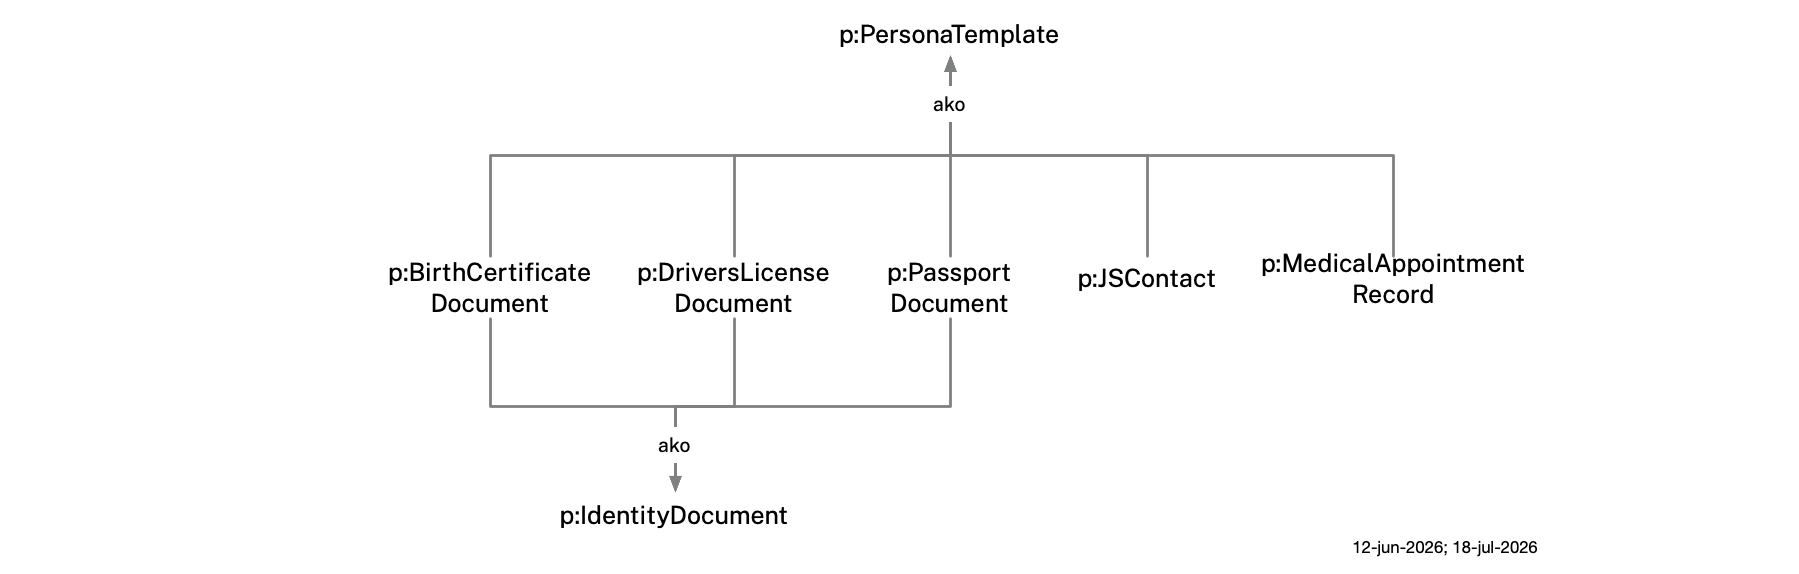
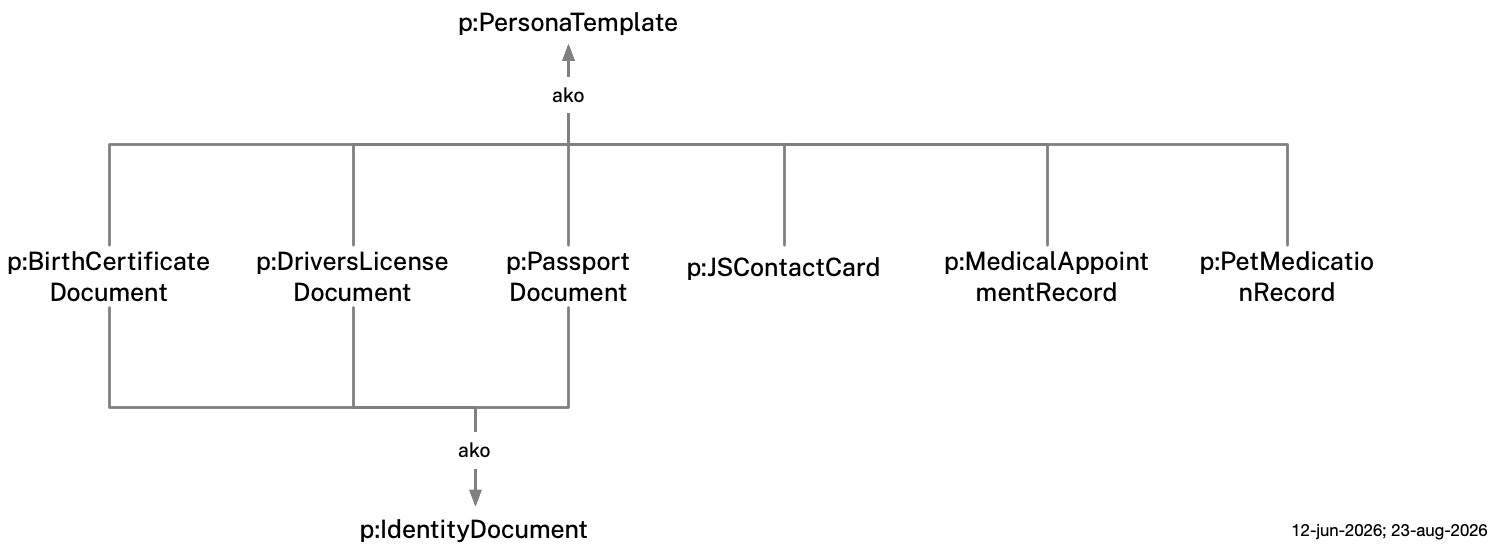
Remove stale deprecated-alias block; add Check 23 for persona-templates diagram
- persona-templates.ttl: removed the owl:deprecated + rdfs:seeAlso alias
  block for DriversLicenseNumber/PassportNumber/PlaceOfBirth/
  IssuingJurisdiction/IssuingCountry/IssueDate, confirmed no downstream
  databooks reference them. These classes remain declared and in active
  use earlier in the file; the alias block was leftover from the 2.4.0
  cco: ent IRI migration and had become contradictory. Bumped to 2.8.0.
- images/persona-ontology/persona-templates.png: redrawn so the fourth
  top-bracket box reads p:JSContactCard (was missing the "Card" suffix).
- CLAUDE.md: added Check 23 verifying persona-templates.ttl's
  PersonaTemplate/IdentityDocument subclass structure against the
  redrawn diagram; recorded resolution.
- README.md: added cross-reference links to "Examples of Cells" and
  "How Cells Are Persisted in the File System"; minor paragraph split
  in the Persona Templates section.

diff --git a/README.md b/README.md
@@ -263,7 +263,7 @@ Each cell DataBook carries one or two `c:subject` values identifying who or what
 
 ### How Cells Are Persisted in the Filesystem
 
-A folder is a **cell** exactly when it holds one **cell DataBook** (see below) directly inside it, whose filename's `<local>` segment is an exact copy of the folder's own name — that single file alone marks the folder as a cell. A folder without a matching cell DataBook is simply a **regular filesystem folder**, not a cell — even if it contains nested cells of its own further down. A folder can never hold more than one cell DataBook, because a `c:Cell` is, by definition, self-contained, and letting two cells share a folder would risk a single file in that folder becoming ambiguously part of both.
+A folder is a **cell** exactly when it holds one **cell DataBook** (see [Examples of Cells](#examples-of-cells) below) directly inside it, whose filename's `<local>` segment is an exact copy of the folder's own name — that single file alone marks the folder as a cell. A folder without a matching cell DataBook is simply a **regular filesystem folder**, not a cell — even if it contains nested cells of its own further down. A folder can never hold more than one cell DataBook, because a `c:Cell` is, by definition, self-contained, and letting two cells share a folder would risk a single file in that folder becoming ambiguously part of both.
 
 A cell's DataBook may carry a `c:origin` value, asserted as `mia.origin` in its own YAML front matter. When present, it records the `cat:Category` subclass — always ultimately reachable from `cat:Person` or `cat:Organization` — the cell was originally instantiated from; this value is fixed at that point, not re-derived from the cell's folder's current name, so the folder can be freely renamed or moved without needing to update it. There are accordingly **three category types**, and the diagram below colors each cell's folder icon fill by which one it is: **Person** (tan, origin reachable from `cat:Person`), **Organization** (light blue, origin reachable from `cat:Organization`), and **Custom** (purple, no `c:origin` at all — a cell the user created without picking any existing `cat:Category` class). Custom is identified precisely, not by judgment call: the cell's DataBook filename carries the literal `(custom)` disambiguator in place of an origin-derived `<catType>` (e.g. `Friends(custom).databook.md` — see the [Category/Cell DataBook Filename Convention](CLAUDE.md#categorycell-databook-filename-convention) in CLAUDE.md).
 
@@ -274,7 +274,7 @@ The diagram below shows how a three level snippet of the user's tree of cells is
 <p align="center"><img src="images/folder-mapping.png" alt="Cells, categories, and topics"></p>
 
 - Every file and non-cell subfolder found inside a cell's folder — to any depth — that is not itself a descendant cell (see below) is that cell's own content, shown in the app's Files tab, and travels with the cell when it's shared. A nested folder that is itself a cell (i.e. holds its own cell DataBook) is a **descendant cell** — a separate node in the tree — and is never counted as part of its ancestor's content, even though it physically sits inside the ancestor's folder.
-- One special file is the cell's **cell DataBook** (a `.databook.md` file with `type: cell-databook`) — see above for why a folder can never hold more than one. A cell DataBook's *filename* matches its own folder's name verbatim, with each space replaced by a hyphen (spaces are illegal inside a raw Turtle IRI) — its `id`, however, is a flat, opaque `cell-<NN>` value independent of the folder name (see CLAUDE.md's Check 9), the same pattern topic ids already use.
+- One special file is the cell's **cell DataBook** (a `.databook.md` file with `type: cell-databook`) — see [How Cells Are Persisted in the File System](#how-cells-are-persisted-in-the-file-system) above for why a folder can never hold more than one. A cell DataBook's *filename* matches its own folder's name verbatim, with each space replaced by a hyphen (spaces are illegal inside a raw Turtle IRI) — its `id`, however, is a flat, opaque `cell-<NN>` value independent of the folder name (see CLAUDE.md's Check 9), the same pattern topic ids already use.
 - Another special file acts as a note about the cell. This so-called *folder note* is stored as a file named `X.md` inside the `X` folder. Using the same name as the folder matches the convention used by PKM (Personal Knowledge Management) tools such as Obsidian (using the Folder Notes plugin), Logseq, Foam and others.
 
 ### Cell Ontology File
@@ -523,7 +523,9 @@ This section describes a few details related to modeling names and addresses.
 
 ### Persona Templates
 
-`p:PersonaTemplate` is an abstract classification class that serves as the common superclass for all reusable, topic-type-specific template labels. These labels are defined in `persona-templates.ttl`. A topic declares its template as the `template` field of its `mia.topics[]` entry (inside its owning cell DataBook's front matter) rather than by typing its `p:Person` individual. Five of the six per-template SHACL shapes (`p:BirthCertificateDocument`, `p:DriversLicenseDocument`, `p:PassportDocument`, `p:MedicalAppointmentRecord`, `p:PetMedicationRecord`) live in `cell-templates-shacl.ttl`, each directly linked from its class-level `c:TCell` template (in `cell-templates.ttl`) via `c:templateShape` (`cell.ttl`) — so the shape is reachable by RDF traversal from the corresponding `cat:Category` class (`cat:BirthCertificate`, `cat:DriversLicense`, `cat:Passport`, `cat:MedicalAppointmentInfo`, `cat:PetsMedications`) via `cat:templateCell` — see [Lazy Instantiation](#lazy-instantiation); `p:JSContactCard`'s shape remains a standalone file in `shacl/`, since it's reused across many unrelated tree positions with no single `cat:Category` class of its own to attach to.
+`p:PersonaTemplate` is an abstract classification class that serves as the common superclass for all reusable, topic-type-specific template labels. These labels are defined in `persona-templates.ttl`. A topic declares its template as the `template` field of its `mia.topics[]` entry (inside its owning cell DataBook's front matter) rather than by typing its `p:Person` individual. 
+
+Five of the six per-template SHACL shapes (`p:BirthCertificateDocument`, `p:DriversLicenseDocument`, `p:PassportDocument`, `p:MedicalAppointmentRecord`, `p:PetMedicationRecord`) live in `cell-templates-shacl.ttl`, each directly linked from its class-level `c:TCell` template (in `cell-templates.ttl`) via `c:templateShape` (`cell.ttl`) — so the shape is reachable by RDF traversal from the corresponding `cat:Category` class (`cat:BirthCertificate`, `cat:DriversLicense`, `cat:Passport`, `cat:MedicalAppointmentInfo`, `cat:PetsMedications`) via `cat:templateCell` — see [Lazy Instantiation](#lazy-instantiation); `p:JSContactCard`'s shape remains a standalone file in `shacl/`, since it's reused across many unrelated tree positions with no single `cat:Category` class of its own to attach to.
 
 <p align="center"><img src="images/persona-ontology/persona-templates.png" alt="persona templates model"></p>
 

diff --git a/CLAUDE.md b/CLAUDE.md
@@ -759,6 +759,31 @@ If a violation is found, either add a topic about the dangling subject (as an `o
 
 If a diagram box's fill or text color doesn't match this script's output for the corresponding real folder, the diagram wins (per Check 10's own rule) — update `mia.origin`/`title:`/filename only if the *data* is actually wrong, otherwise redraw the box.
 
+**Check 23 — `persona-templates.ttl` matches `images/persona-ontology/persona-templates.png`**: This diagram is a pure classification tree — every box label is a class's exact *local name* (with the `p:` prefix), not its `rdfs:label` display string (e.g. `p:PetMedicationRecord`, not "Pet Medications"), and it shows no property arrows at all. `persona-templates.ttl` defines many properties (`persona:hasIdentityDocument`, `persona:forPatient`, `persona:hasPrimaryCarePhysician`, `persona:hasMedication`, `persona:hasActiveIngredient`, `persona:hasDoseForm`, `persona:hasDosageAmount`, `persona:hasAdministration`, etc.) — none of these are missing from the diagram by omission; they're simply out of scope for it, unlike `cell.png`/`topic.png`/`category.png`, which do show property arrows. Two `ako` (a-kind-of) arrows each connect a bracket of boxes to a superclass box, arrow always pointing from subclass(es) to superclass regardless of whether that superclass is drawn above or below the bracket: `p:PersonaTemplate` (above, connects to all six boxes — `p:BirthCertificateDocument`, `p:DriversLicenseDocument`, `p:PassportDocument`, `p:JSContact`, `p:MedicalAppointmentRecord`, `p:PetMedicationRecord`) and `p:IdentityDocument` (below, connects to only the first three of those same six boxes). Like Checks 12–14, this check does not presume which side is authoritative when the two disagree — surface the discrepancy and ask. Verify:
+
+- **23a** — every box in the top bracket (pointing at `p:PersonaTemplate`) matches a class in `persona-templates.ttl` actually declared `rdfs:subClassOf persona:PersonaTemplate`, by exact local name.
+- **23b** — every box in the bottom bracket (pointing at `p:IdentityDocument`) matches a class actually declared `rdfs:subClassOf persona:IdentityDocument`, by exact local name — and every such class must already be in the top bracket too, since `persona-templates.ttl`'s three `IdentityDocument` subclasses (`p:BirthCertificateDocument`, `p:DriversLicenseDocument`, `p:PassportDocument`) are always also `PersonaTemplate` subclasses (see `persona-templates.ttl`'s own class-hierarchy doc comment).
+- **23c** — conversely, every class in `persona-templates.ttl` declared `rdfs:subClassOf persona:PersonaTemplate` or `rdfs:subClassOf persona:IdentityDocument` appears as a box in the diagram (catches a new template/identity-document class added to the ttl but never drawn).
+
+This is a visual check (no automated OCR), but the script below prints the ttl's actual current subclass structure for direct cross-reference against the diagram:
+
+```python
+import re
+
+text = open('persona-templates.ttl').read()
+blocks = re.split(r'\n\n+', text)
+for block in blocks:
+    m = re.search(r'persona:(\w+) rdf:type owl:Class', block)
+    if not m:
+        continue
+    cls = m.group(1)
+    subs = re.findall(r'rdfs:subClassOf persona:(\w+)', block)
+    if 'PersonaTemplate' in subs or 'IdentityDocument' in subs:
+        print(f'{cls:30} subClassOf {subs}')
+```
+
+**Resolved, 23-aug-2026**: the diagram's fourth box in the top bracket originally read `p:JSContact`, missing the "Card" suffix carried by the actual class `persona:JSContactCard`; the user redrew it as `p:JSContactCard`, now matching the local name verbatim like every other box. Re-checked against the script above — all six top-bracket boxes and all three bottom-bracket boxes match `persona-templates.ttl`'s actual `PersonaTemplate`/`IdentityDocument` subclass structure exactly, both directions (23a–23c).
+
 ## Keeping Files in Sync
 
 Whenever changes are made to any topic file, `persona.ttl`, or `topic.ttl`, `persona-shacl.ttl` must be updated to match:
